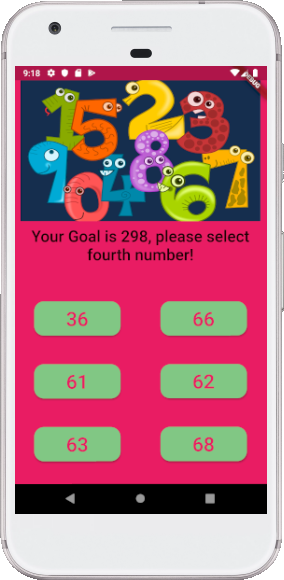
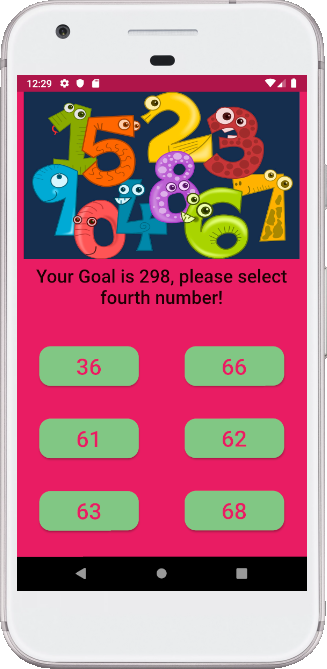
screenshots changed

diff --git a/lib/main.dart b/lib/main.dart
@@ -101,6 +101,7 @@ class _SumOfNumbersState extends State<SumOfNumbers> {
   @override
   Widget build(BuildContext context) {
     return MaterialApp(
+      debugShowCheckedModeBanner: false,
       home: Scaffold(
         backgroundColor: Colors.pink,
         body: _questionIndex < _questions.length

diff --git a/lib/question.dart b/lib/question.dart
@@ -14,7 +14,7 @@ class Question extends StatelessWidget {
           child: Image.asset(
             'assets/images/pic1.jpg',
             width: double.infinity,
-            height: 230,
+            height: 237,
             fit: BoxFit.cover,
           ),
         ),
